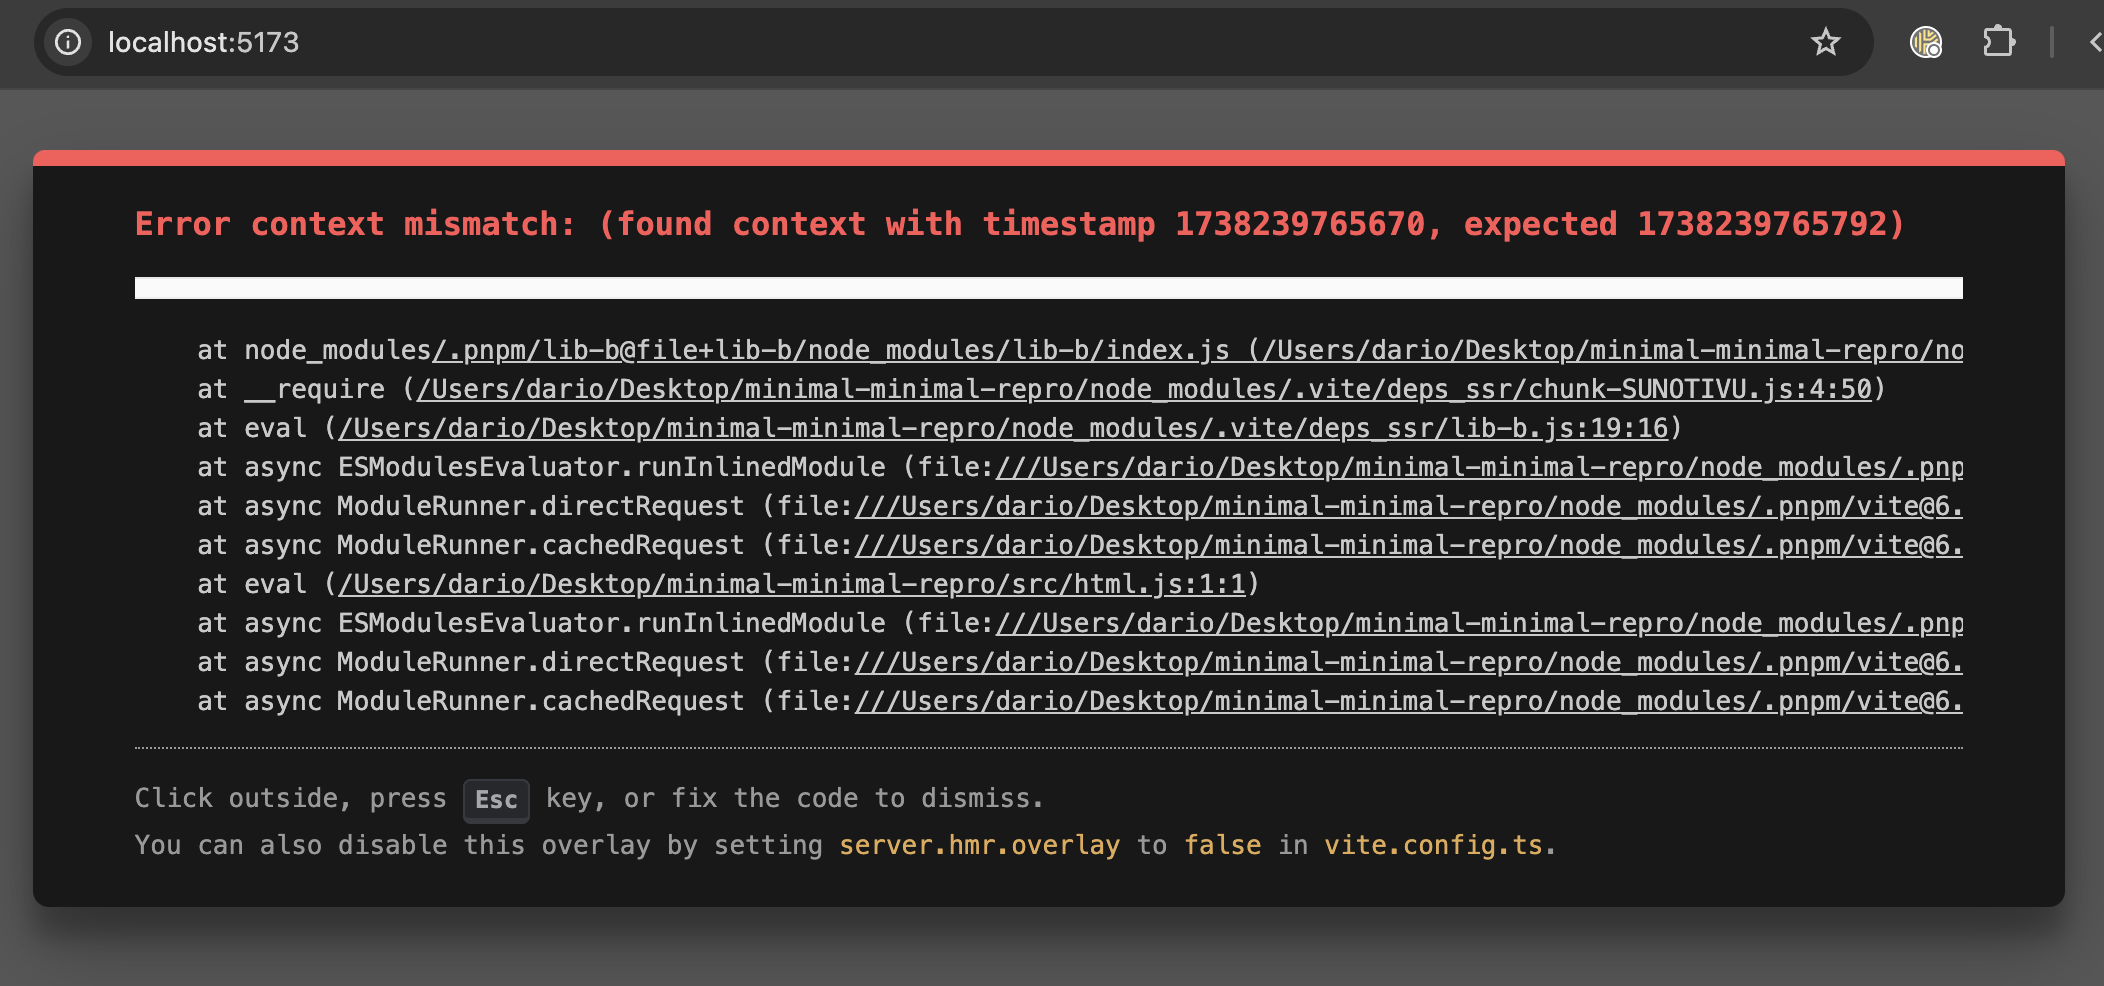
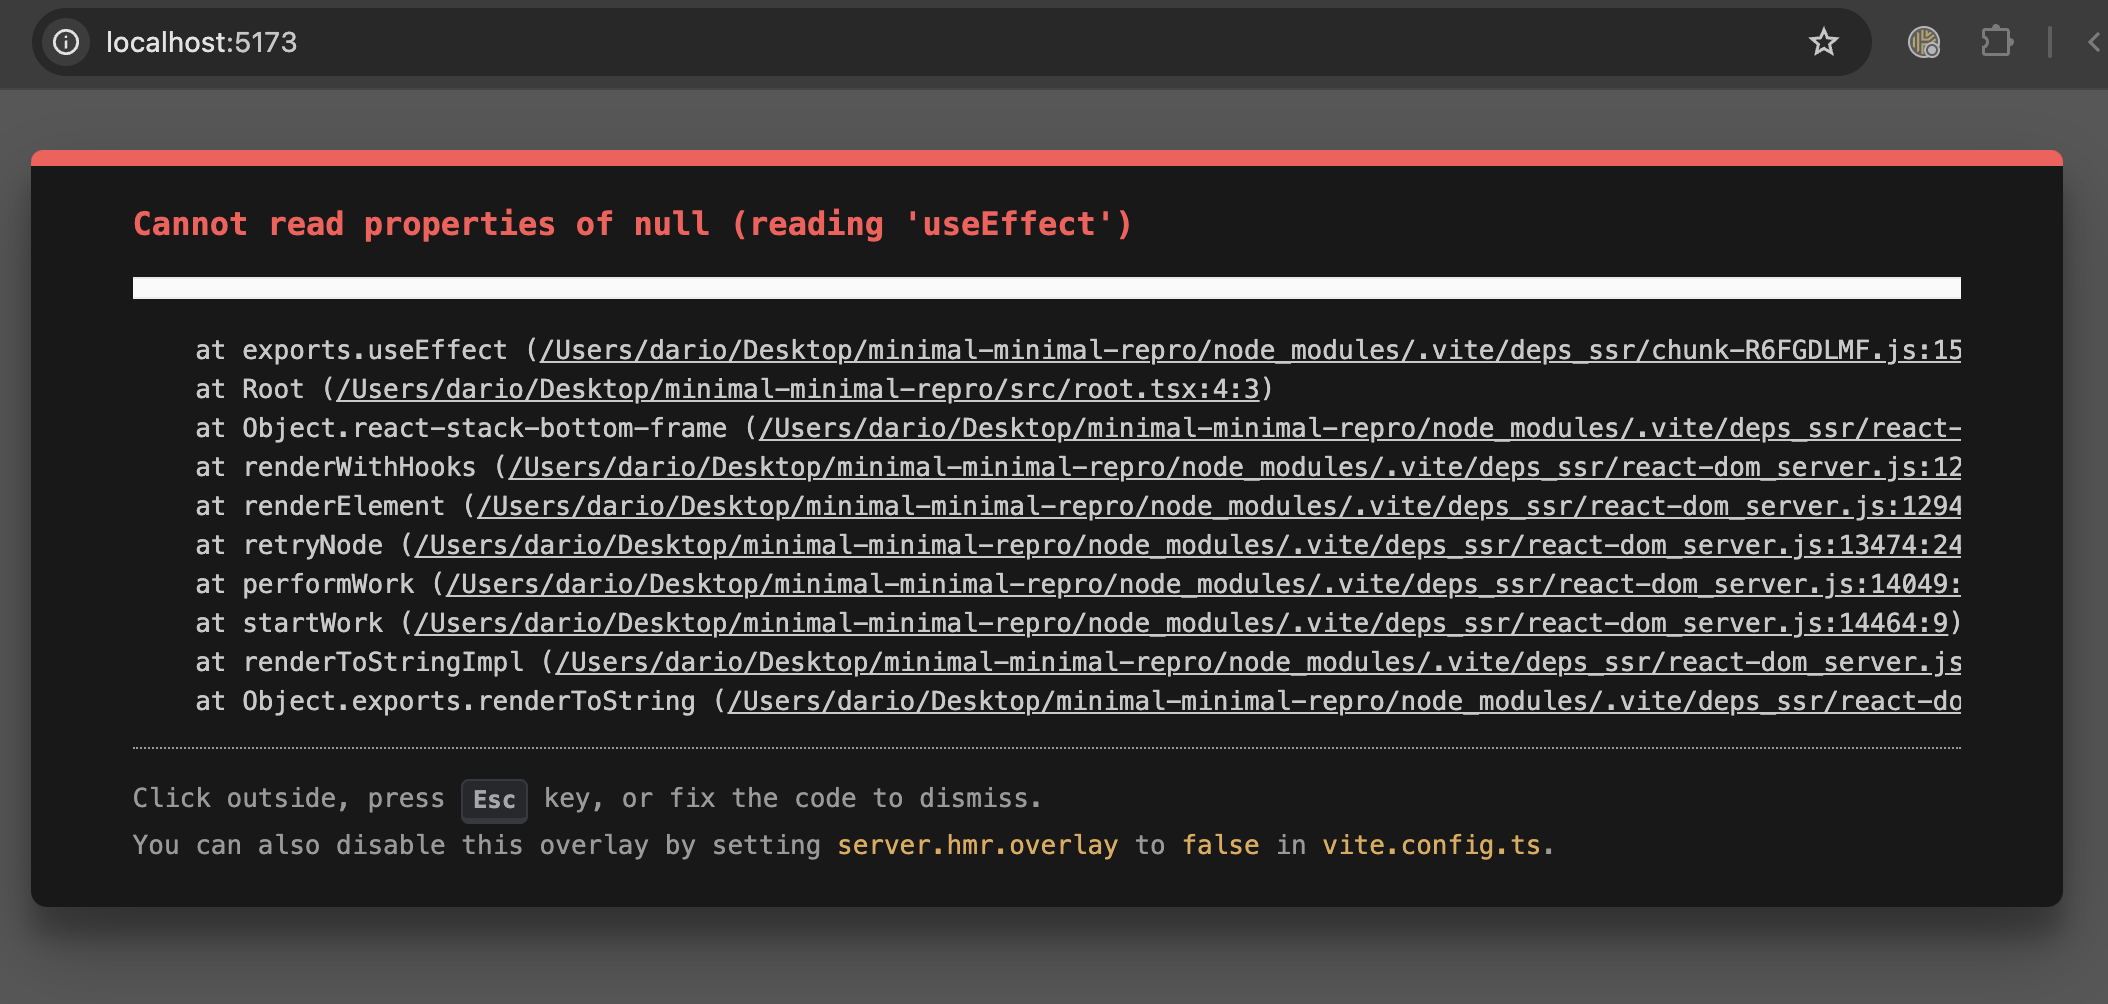
convert issue to use ssr react

diff --git a/src/entry-server.tsx b/src/entry-server.tsx
@@ -1,0 +1,21 @@
+import ReactDomServer from "react-dom/server";
+import Root from "./root";
+
+const handler = async (_req, res) => {
+  const ssrHtml = ReactDomServer.renderToString(<Root />);
+  const html = `
+    <!doctype html>
+    <html>
+      <head>
+        <meta charset="UTF-8" />
+        <title>ssr react repro</title>
+      </head>
+      <body>
+        <div id="root">${ssrHtml}</div>
+      </body>
+    </html>
+  `;
+  res.setHeader("content-type", "text/html").end(html);
+};
+
+export default handler;

diff --git a/vite.config.ts b/vite.config.ts
@@ -9,7 +9,7 @@ import {
 export default defineConfig({
   clearScreen: false,
   appType: "custom",
-  plugins: [vitePluginSsrMiddleware({ entry: "/src/index" })],
+  plugins: [vitePluginSsrMiddleware({ entry: "/src/entry-server" })],
   resolve: {
     noExternal: true,
   },

diff --git a/src/root.tsx b/src/root.tsx
@@ -1,0 +1,11 @@
+import { useEffect } from "react";
+
+export default function Root() {
+  useEffect(() => {}, []);
+
+  return (
+    <div>
+      <h1>This is a non-hydrated Server Side Rendered React page</h1>
+    </div>
+  );
+}

diff --git a/README.md b/README.md
@@ -1,11 +1,6 @@
-# vite-dev-ssr-prebundling-mid-flight-issue-repro
+# vite-dev-ssr-prebundling-mid-flight-issue-repro (ssr-react variant)
 
-This is a reproduction showing an issue that happens in Vite Dev server SSR environments when
-dependencies get optimized while a request is being handled.
-
-## The issue
-
-The problem is that when new dependencies are optimized a [`fullReload()`](https://github.com/vitejs/vite/blob/353c467610e2d92c0929fa4abd03f2cbd26e34ed/packages/vite/src/node/optimizer/optimizer.ts#L492) is triggered (which [invalidates the environmen's whole module graph](https://github.com/vitejs/vite/blob/353c467610e2d92c0929fa4abd03f2cbd26e34ed/packages/vite/src/node/optimizer/optimizer.ts#L515)). Although this is the generally the expected behavior, this might be problematic when dependencies are discovered while a request is being handled. In such case the state of the environment will be different before and after the reload introducing the risk of inconsistent state, potentially causing problems in the application.
+The same issue but reproduced simply using react
 
 ## Reproduction
 
@@ -34,15 +29,3 @@ pnpm vite dev
 ```
 
 afterwords does not trigger the error (since this only happens then dependencies are getting optimized)
-
-## Additional information
-
-### Virtual Modules
-
-In the reproduction this error is triggered by not providing any entrypoints in `optimizeDeps.entries`, meaning that there is no initial crawling and dependencies are optimized as they are encountered.
-
-The issue can however be triggered even when there is an initial crawling process, simply by using virtual modules since those are not part of the initial crawling process.
-
-> [!Note]
-> This is actually the main issue here since many fullstack frameworks
-> rely on virtual modules to control how the user's application is run
